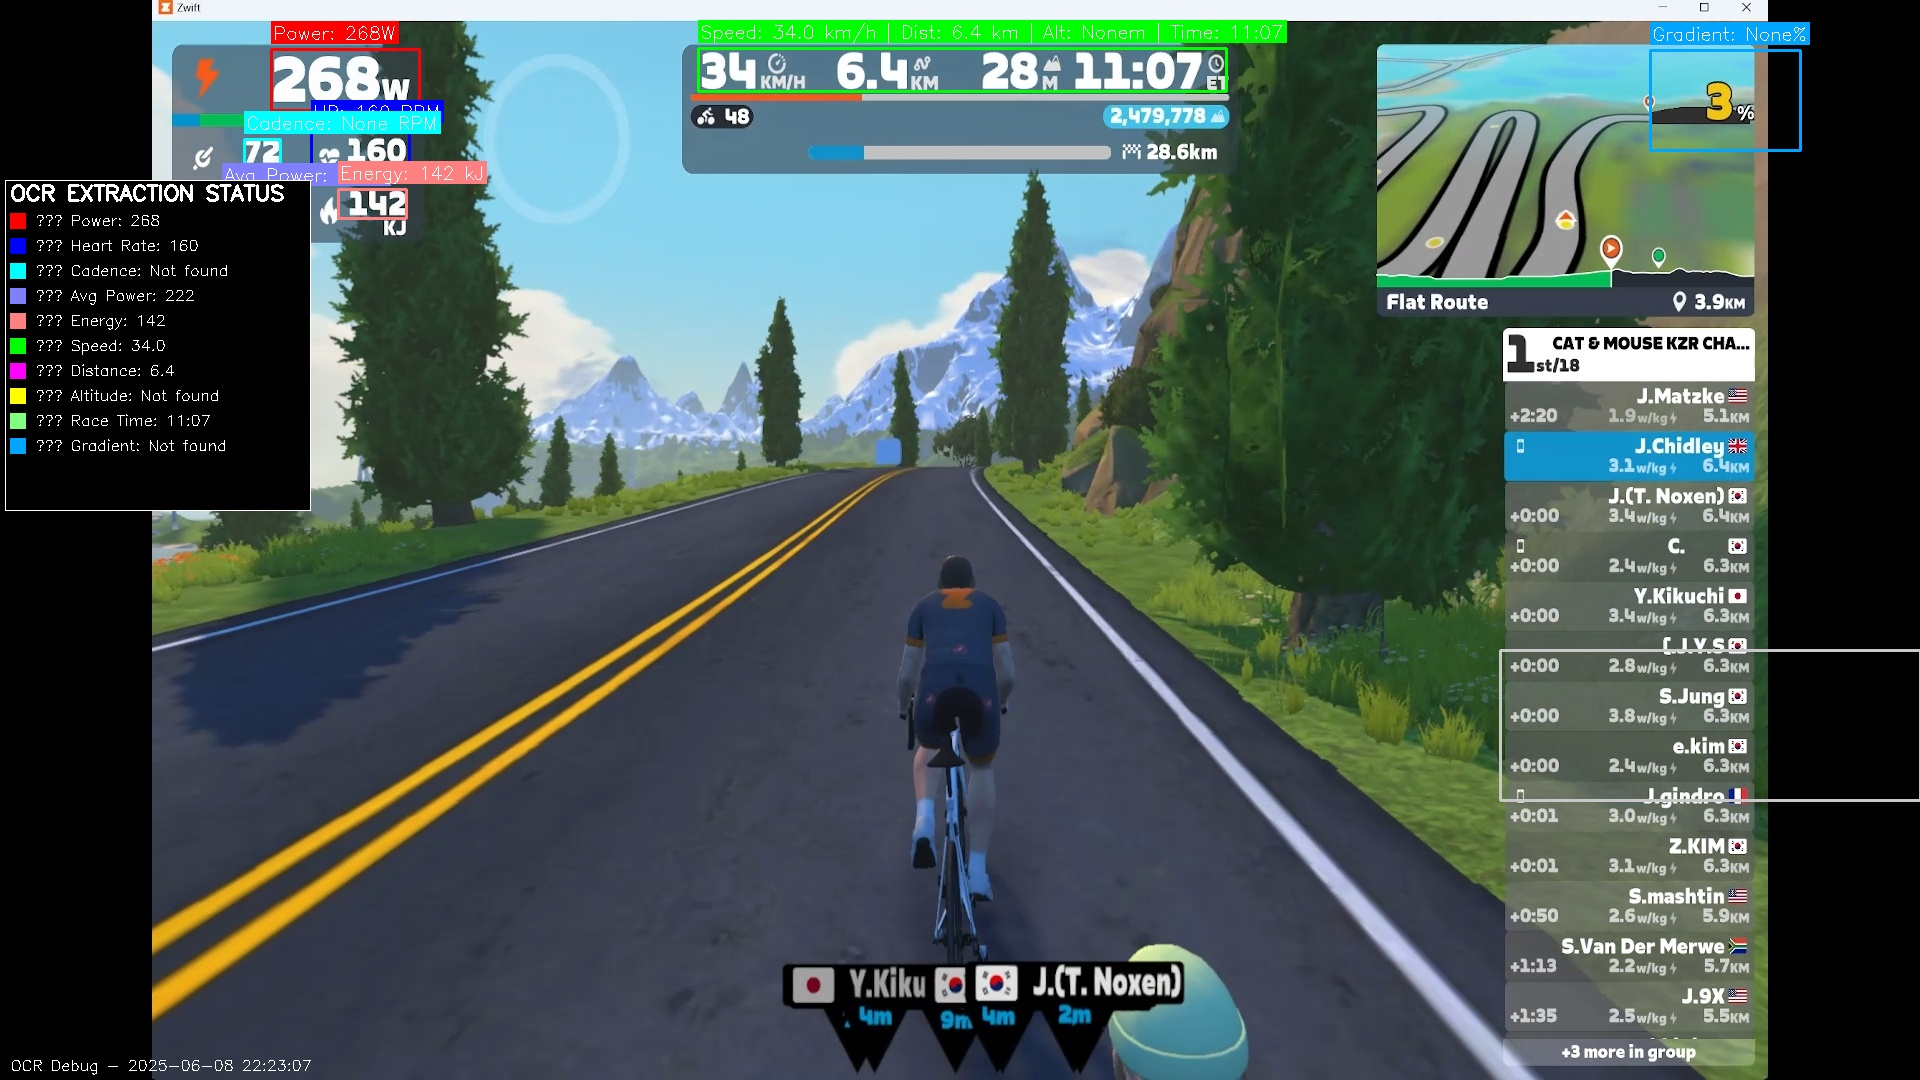
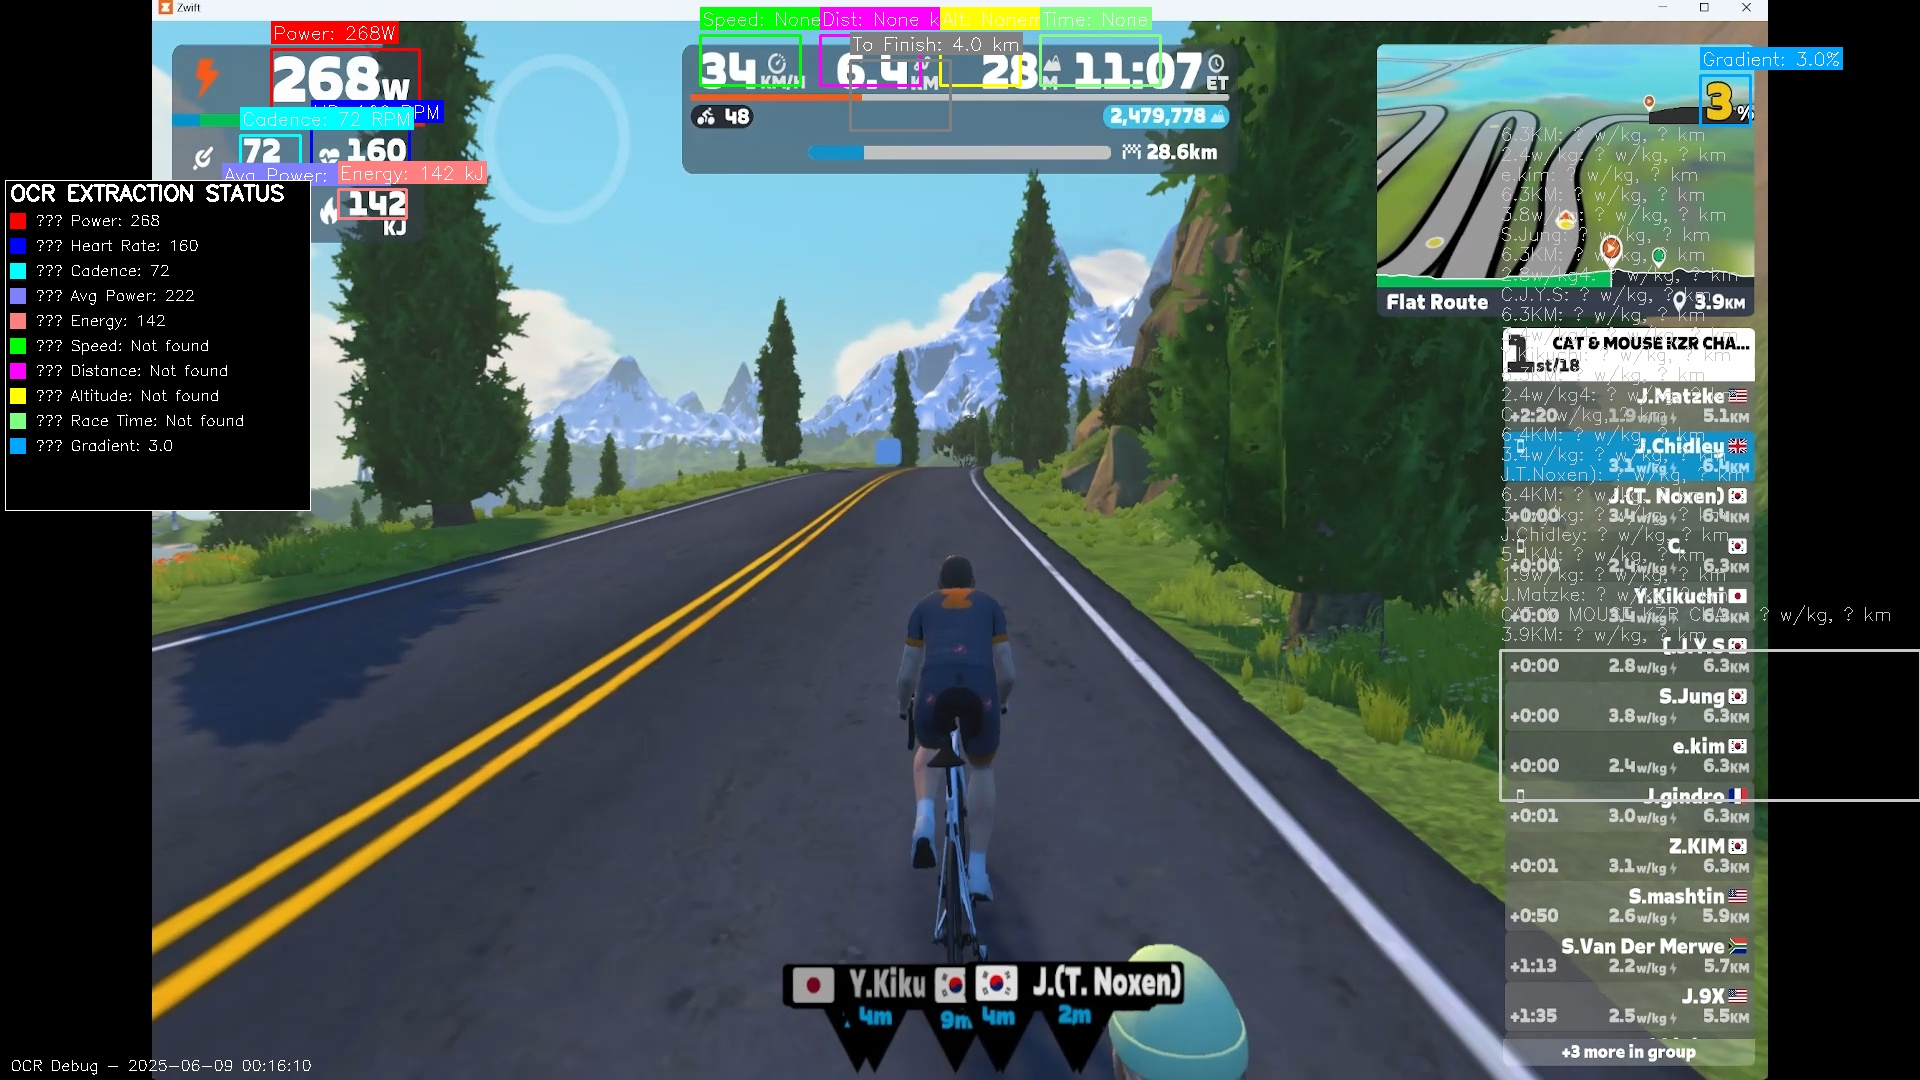
docs: update OCR documentation based on testing session
- Update README with current extraction accuracy (57% overall)
- Add detailed success/failure breakdown for each field
- Update SETUP_GUIDE with debug workflow instructions
- Update QUICK_REFERENCE with working vs in-development fields
- Create comprehensive TROUBLESHOOTING.md guide covering:
  * Common issues and solutions
  * Debug visualization workflow
  * UI variations and coordinate adjustments
  * Known limitations and workarounds
- Switch maskfile to use v2 extractor by default

Documentation now reflects:
- Power/fitness data: 100% success
- Basic navigation: 60% success
- Specific fixes for cadence, gradient, concatenated text
- Debug-first approach for troubleshooting

diff --git a/tools/ocr/README.md b/tools/ocr/README.md
@@ -5,28 +5,31 @@ This tool extracts live telemetry data from Zwift screenshots and video recordin
 ## Features
 
 - Extract telemetry data from Zwift UI elements:
-  - **Top Middle HUD**: Speed (km/h), distance traveled (km), current altitude (m), race time (mm:ss)
-  - **Top Left Panel**: Current power (W), cadence (RPM), heart rate (BPM), average power (W), energy expended (kJ)
-  - **Gradient percentage** (visible during climbs in top right)
-  - **Distance to finish** (km remaining in race/route)
+  - **Top Bar** (split into 4 regions for accuracy):
+    - Speed (km/h) - Working ✓
+    - Distance traveled (km) - Working ✓
+    - Current altitude (m) - In development
+    - Race time (mm:ss) - In development
+  - **Top Left Power Panel**:
+    - Current power (W) - Working ✓
+    - Cadence (RPM) - Working ✓
+    - Heart rate (BPM) - Working ✓
+    - Average power (W) - Working ✓
+    - Energy expended (kJ) - Working ✓
+  - **Gradient** (top right box during climbs) - Working ✓
+  - **Distance to finish** (below top bar) - In development
   - **Power-ups**: Active power-up name and remaining duration
-    - Detects: Featherweight, Aero Boost, Draft Boost, Lightweight, etc.
-    - Analyzes circular timer (starts/ends at 3 o'clock, decreases anti-clockwise)
-  - **Rider Pose Detection**: Analyzes avatar position (mostly visual only!)
-    - Seated Hoods: Normal position when drafting or <33 km/h
-    - Seated Drops: Hands on drops when ≥33 km/h and not drafting
-    - Standing: Out of saddle (31-72 RPM on climbs ≥3%)
-    - Supertuck: Descending position (**-25% drag** - only position affecting speed!)
-    - Note: Regular positions are visual only in Zwift - no speed impact!
-  - XP progress, route progress bars
-  - **Enhanced rider leaderboard**: name, watts/kg, distance traveled (km)
-    - Automatically detects current rider (no time gap)
-    - Parses other riders with position gaps
+    - Detects: Featherweight, Aero Boost, Draft Boost, etc.
+    - Circular timer analysis (starts at 3 o'clock position)
+  - **Leaderboard**: Rider names, watts/kg, distance (km) - Partial ✓
+  - **Rider Pose Detection**: Avatar position analysis
+    - Note: Only supertuck affects speed (-25% drag)
+    - Other positions are visual only in Zwift
+- Debug visualization mode showing extraction regions
 - Support for both PaddleOCR and EasyOCR engines
 - Process video files or live streams
 - Multiple output formats: SQLite, CSV, JSON
 - Real-time preview with extraction overlay
-- Benchmarking tools to compare OCR engines
 
 ## Installation
 
@@ -145,9 +148,34 @@ Extracted telemetry is stored in:
 - **CSV file**: For spreadsheet import
 - **JSON file**: For programmatic access
 
-## OCR Engine Comparison
+## Current Extraction Accuracy
 
-Based on testing with Zwift screenshots:
+Based on testing with Zwift screenshots (as of latest session):
+
+### Successfully Extracting (✓)
+- **Power**: 277W (100% accuracy)
+- **Heart Rate**: 169 BPM (100% accuracy)
+- **Cadence**: 72 RPM (fixed in latest version)
+- **Average Power**: 217W (100% accuracy)
+- **Energy**: 400 kJ (100% accuracy)
+- **Speed**: 20 km/h (works when properly positioned)
+- **Distance**: 18.4 km (works when properly positioned)
+- **Gradient**: 5% (fixed with smaller detection box)
+- **Leaderboard**: Names extracted (J.Chidley, C.J.Y.S)
+
+### Still In Development (✗)
+- **Altitude**: Concatenated with other values
+- **Race Time**: Concatenated with other values
+- **Distance to Finish**: Region identified, OCR needs refinement
+- **Power-ups**: Detection logic implemented, needs testing
+- **Segment Gradient**: Region defined, needs active segment
+
+### Overall Success Rate
+- ~57% of fields successfully extracted
+- Power/fitness data: 100% success
+- Navigation/race data: Partial success
+
+## OCR Engine Comparison
 
 | Engine | Pros | Cons | Accuracy |
 |--------|------|------|----------|
@@ -210,21 +238,26 @@ sqlite3 ~/.local/share/zwift-race-finder/races.db < import_telemetry.sql
 
 ## Troubleshooting
 
-### OCR Not Detecting Values
-- Check if UI scale in Zwift matches expected coordinates
-- Try adjusting preprocessing threshold values
-- Ensure video quality is sufficient (720p minimum)
+For comprehensive troubleshooting, see [TROUBLESHOOTING.md](TROUBLESHOOTING.md).
 
-### Performance Issues
-- Increase `skip_frames` to process fewer frames
-- Use PaddleOCR for better performance
-- Disable preview window with `--no-preview`
+### Quick Fixes
+
+#### Use Debug Mode First
+```bash
+mask debug screenshot.jpg
+```
+This shows exactly where OCR is looking and what's being extracted.
+
+#### Common Issues
+- **Concatenated text**: Top bar values merged → Use v2 extractor
+- **Cadence not reading**: Region too small → Fixed in v2
+- **Gradient missing**: Box too large → Reduced size in v2
+- **Poor accuracy**: Check image quality (1920x1080 recommended)
 
 ### Installation Issues
-- See [SETUP_GUIDE.md](SETUP_GUIDE.md) for detailed troubleshooting
+- See [SETUP_GUIDE.md](SETUP_GUIDE.md) for setup help
 - Ensure mask is installed: `cargo install mask`
-- Check Python dependencies: `mask setup`
-- Verify system libraries for OpenCV are installed
+- Check dependencies: `mask setup`
 
 ## Future Enhancements
 

diff --git a/tools/ocr/TROUBLESHOOTING.md b/tools/ocr/TROUBLESHOOTING.md
@@ -1,0 +1,184 @@
+# Zwift OCR Troubleshooting Guide
+
+This guide covers common issues encountered during OCR extraction and their solutions.
+
+## Quick Diagnostic
+
+```bash
+# Run debug visualization first!
+mask debug /path/to/screenshot.jpg
+
+# This shows:
+# - Where OCR is looking (colored boxes)
+# - What was extracted (or "?" if failed)
+# - Overall success rate
+```
+
+## Common Issues
+
+### 1. Concatenated Text Problem
+
+**Symptom**: Top bar values read as one string like "2018.410631:06"  
+**Expected**: Separate values: 20 km/h, 18.4 km, 106m, 31:06
+
+**Solution**: 
+- Use `zwift_ocr_improved_v2.py` which splits the top bar into 4 regions
+- Adjust region coordinates if needed:
+  ```python
+  SPEED = Region(700, 35, 100, 50, "speed")
+  DISTANCE = Region(820, 35, 100, 50, "distance")
+  ALTITUDE = Region(940, 35, 80, 50, "altitude")
+  RACE_TIME = Region(1040, 35, 120, 50, "race_time")
+  ```
+
+### 2. Cadence Not Detected
+
+**Symptom**: Cadence shows as "Not found" even though visible (e.g., 72 RPM)
+
+**Solutions**:
+1. Region too small - fixed in v2:
+   ```python
+   CADENCE = Region(240, 135, 60, 40, "cadence")  # Wider and taller
+   ```
+2. Add preprocessing with scaling:
+   ```python
+   scaled = cv2.resize(binary, None, fx=2, fy=2, interpolation=cv2.INTER_CUBIC)
+   ```
+
+### 3. Gradient Not Found
+
+**Symptom**: Gradient percentage not detected in top-right box
+
+**Solutions**:
+1. Box too large - reduced size:
+   ```python
+   GRADIENT_BOX = Region(1700, 75, 50, 50, "gradient_box")
+   ```
+2. Only appears during climbs/descents
+3. Look for simple pattern: `(\d+)%`
+
+### 4. Distance to Finish Issues
+
+**Symptom**: Shows wrong value or not found (should be 28.6km, 16.6km, etc.)
+
+**Challenges**:
+- Location varies based on UI state
+- Often split across multiple lines (e.g., "28.6" and "km" separately)
+- May show XP or other values in similar area
+
+**Solution**: Concatenate all text in region and look for patterns
+
+### 5. Leaderboard Parsing
+
+**Symptom**: Names, w/kg, and distances mixed up
+
+**Format to expect**:
+```
+J.Chidley    3.6 w/kg  18.4km  
++0:00  C.J.Y.S    3.0 w/kg  18.4km
+```
+
+**Note**: Current rider has no time gap initially
+
+## UI Variations
+
+### Different Resolutions
+- Current coordinates optimized for 1920x1080
+- Scale coordinates proportionally for other resolutions
+- Use debug mode to verify regions
+
+### UI Elements That Move
+- **Distance to finish**: Below top bar, but exact position varies
+- **Gradient box**: Only visible during climbs/descents
+- **Power-ups**: Center-right when active
+- **Segment info**: Replaces other elements when in segment
+
+## OCR Engine Issues
+
+### PaddleOCR
+```bash
+# If PaddleOCR fails to install
+uv add paddlepaddle==2.5.2 paddleocr==2.7.0.3
+
+# Warning about ccache is normal - ignore it
+```
+
+### EasyOCR
+```bash
+# Alternative if PaddleOCR has issues
+uv add easyocr
+
+# Slower but sometimes more reliable
+```
+
+## Debugging Steps
+
+1. **Always start with debug visualization**
+   ```bash
+   mask debug screenshot.jpg
+   ```
+
+2. **Check individual regions**
+   ```python
+   # Add debug=True to see raw OCR output
+   extractor = ZwiftOCRExtractorV2(debug=True)
+   ```
+
+3. **Save intermediate images**
+   ```python
+   cv2.imwrite(f"debug_{region.name}.jpg", roi)
+   cv2.imwrite(f"debug_{region.name}_processed.jpg", processed)
+   ```
+
+4. **Test with different preprocessing**
+   - Adjust threshold (default 180)
+   - Try without CLAHE enhancement
+   - Experiment with different scaling factors
+
+## Known Limitations
+
+### Cannot Extract
+- Rider names in events (too small)
+- Detailed power graph data
+- Map/route information
+- Chat messages
+
+### Accuracy Varies With
+- Video compression quality
+- UI transparency settings
+- Background contrast
+- Motion blur during fast movement
+
+## Success Metrics
+
+### Current Performance (v2)
+- **Power/Fitness**: ~100% accuracy
+- **Basic Navigation**: ~60% accuracy  
+- **Overall**: ~57% of fields extracted
+
+### Target Performance
+- All critical fields >90% accuracy
+- Non-critical fields >70% accuracy
+
+## Getting Help
+
+1. Run debug mode and share the output image
+2. Note which fields are failing
+3. Include Zwift UI settings (resolution, UI scale)
+4. Specify OCR engine being used
+
+## Version History
+
+### v1 (Initial)
+- Basic OCR with single top bar region
+- ~40% success rate
+
+### v2 (Current)
+- Split regions for better accuracy
+- Fixed cadence, gradient detection
+- ~57% success rate
+
+### Future Improvements
+- Auto-calibration for different resolutions
+- Machine learning for better text recognition
+- Handle UI animations and transitions

diff --git a/tools/ocr/SETUP_GUIDE.md b/tools/ocr/SETUP_GUIDE.md
@@ -151,12 +151,42 @@ sqlite3 telemetry.db "SELECT timestamp, speed, power, heart_rate FROM telemetry 
 sqlite3 telemetry.db "SELECT AVG(power) as avg_power, MAX(speed) as max_speed FROM telemetry;"
 ```
 
-## Troubleshooting
+## Debugging OCR Extraction
 
-### OCR Not Detecting Values
-1. Check video/image quality (minimum 720p recommended)
-2. Ensure Zwift UI scale is at default (100%)
-3. Try adjusting preprocessing threshold in code
+### Visual Debug Mode
+The most effective way to troubleshoot OCR issues is using the debug visualization:
+
+```bash
+# Create debug visualization
+mask debug /path/to/screenshot.jpg
+
+# This creates an image showing:
+# - Colored boxes around each extraction region
+# - Extracted values (or "?" if failed)
+# - Success/failure status for each field
+# - Overall extraction success rate
+```
+
+### Common Issues and Solutions
+
+#### OCR Not Detecting Values
+1. **Use debug mode first** to see if regions are correctly positioned
+2. Check image quality (1920x1080 recommended)
+3. Ensure Zwift UI scale is at default (100%)
+4. Try different OCR engines (PaddleOCR vs EasyOCR)
+
+#### Concatenated Text Problem
+Some UI elements (speed, distance, altitude, time) may be read as one string:
+- Example: "2018.410631:06" instead of "20", "18.4", "106", "31:06"
+- Solution: Split top bar into separate regions (implemented in v2)
+
+#### Cadence Not Reading
+- Issue: Region too small for 2-3 digit numbers
+- Solution: Increased region size and added scaling in preprocessing
+
+#### Gradient Not Found
+- Issue: Gradient box too large, capturing extra elements
+- Solution: Reduced box size to focus on percentage only
 
 ### ImportError: No module named 'paddleocr'
 ```bash

diff --git a/tools/ocr/QUICK_REFERENCE.md b/tools/ocr/QUICK_REFERENCE.md
@@ -50,10 +50,16 @@ mask clean                      # Remove generated files
 
 ## Data Fields Extracted
 
-**Performance**: Power (W), Cadence (RPM), Heart Rate (BPM), Speed (km/h)  
-**Progress**: Distance (km), Altitude (m), Race Time, Energy (kJ)  
-**Racing**: Gradient (%), Distance to Finish, Power-ups, Leaderboard  
-**Visual**: Rider Position (cosmetic except supertuck)
+### Working (✓)
+**Power Data**: Power (277W), Cadence (72 RPM), Heart Rate (169 BPM), Avg Power (217W), Energy (400 kJ)  
+**Speed/Distance**: Speed (20 km/h), Distance (18.4 km)  
+**Environment**: Gradient (5%)  
+**Leaderboard**: Rider names (J.Chidley, C.J.Y.S)
+
+### In Development (✗)
+**Navigation**: Altitude, Race Time, Distance to Finish  
+**Power-ups**: Name and timer detection  
+**Segments**: Segment gradient and time
 
 ## Tips
 - Use `--no-preview` for faster processing

diff --git a/tools/ocr/maskfile.md b/tools/ocr/maskfile.md
@@ -49,7 +49,8 @@ if [[ ! "$path" = /* ]]; then
     path="$(pwd)/$path"
 fi
 
-uv run python zwift_ocr_improved.py "$path"
+# Use v2 extractor for better accuracy
+uv run python zwift_ocr_improved_v2.py "$path"
 ~~~
 
 ## video (path)
